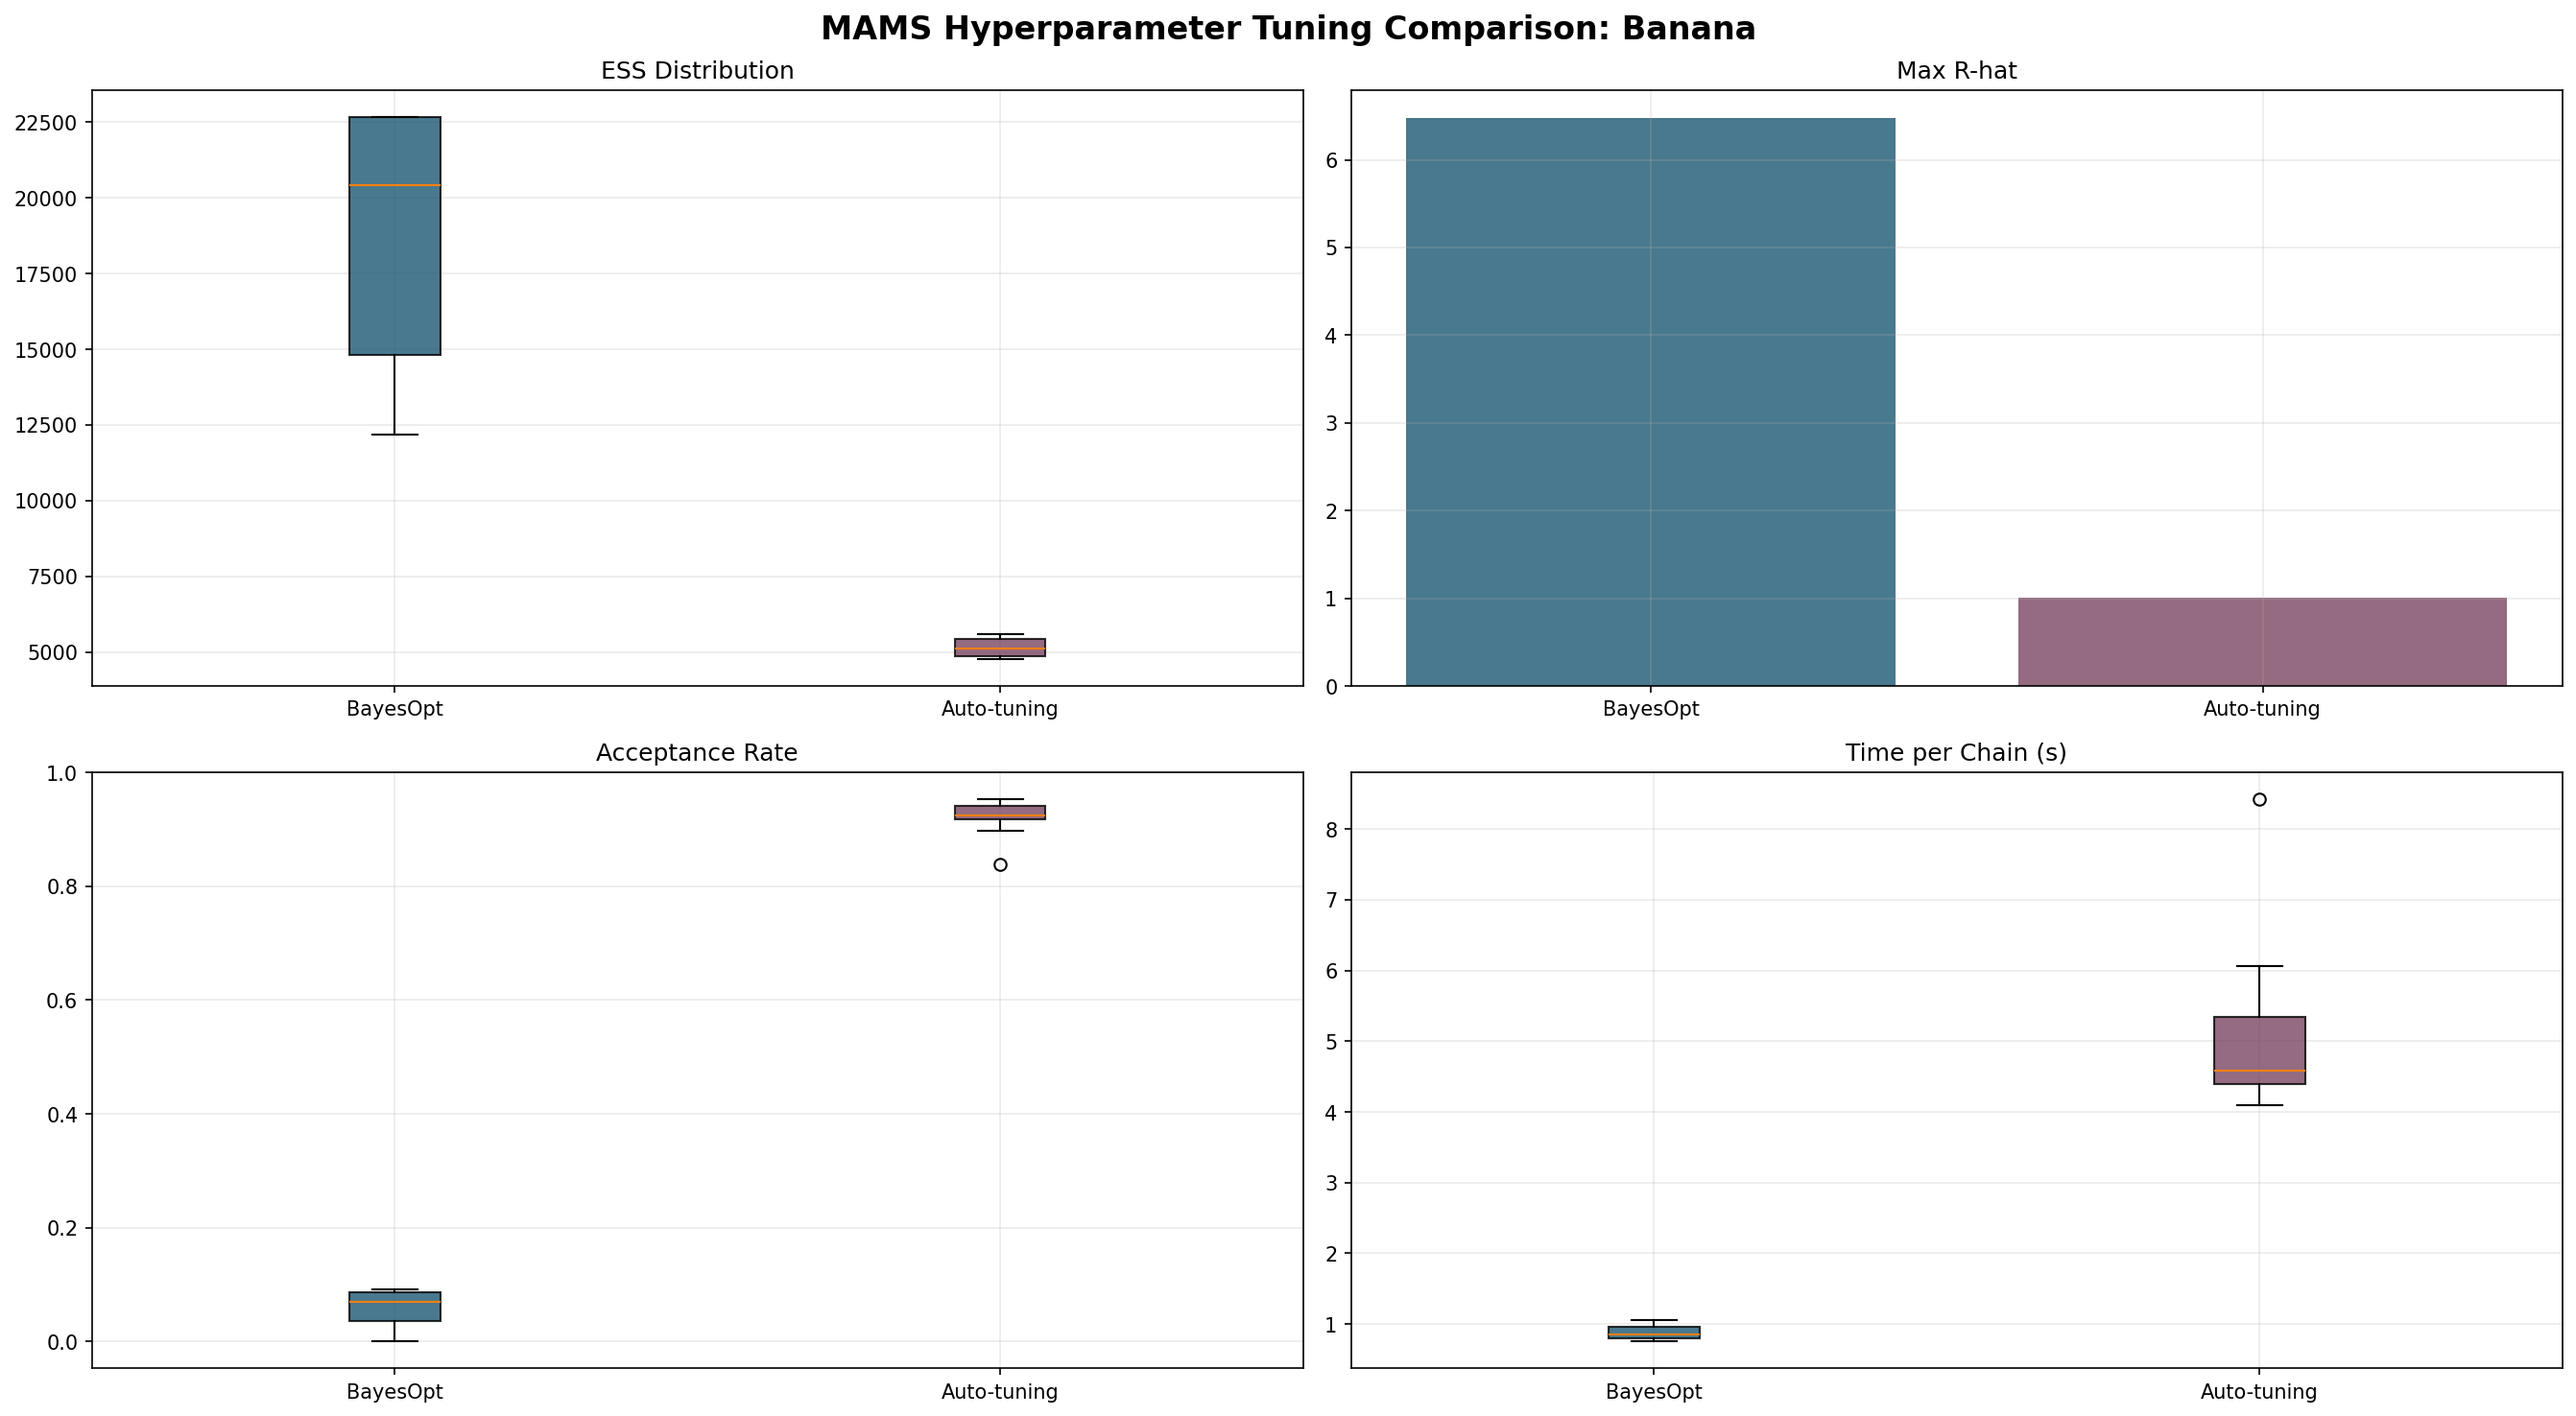
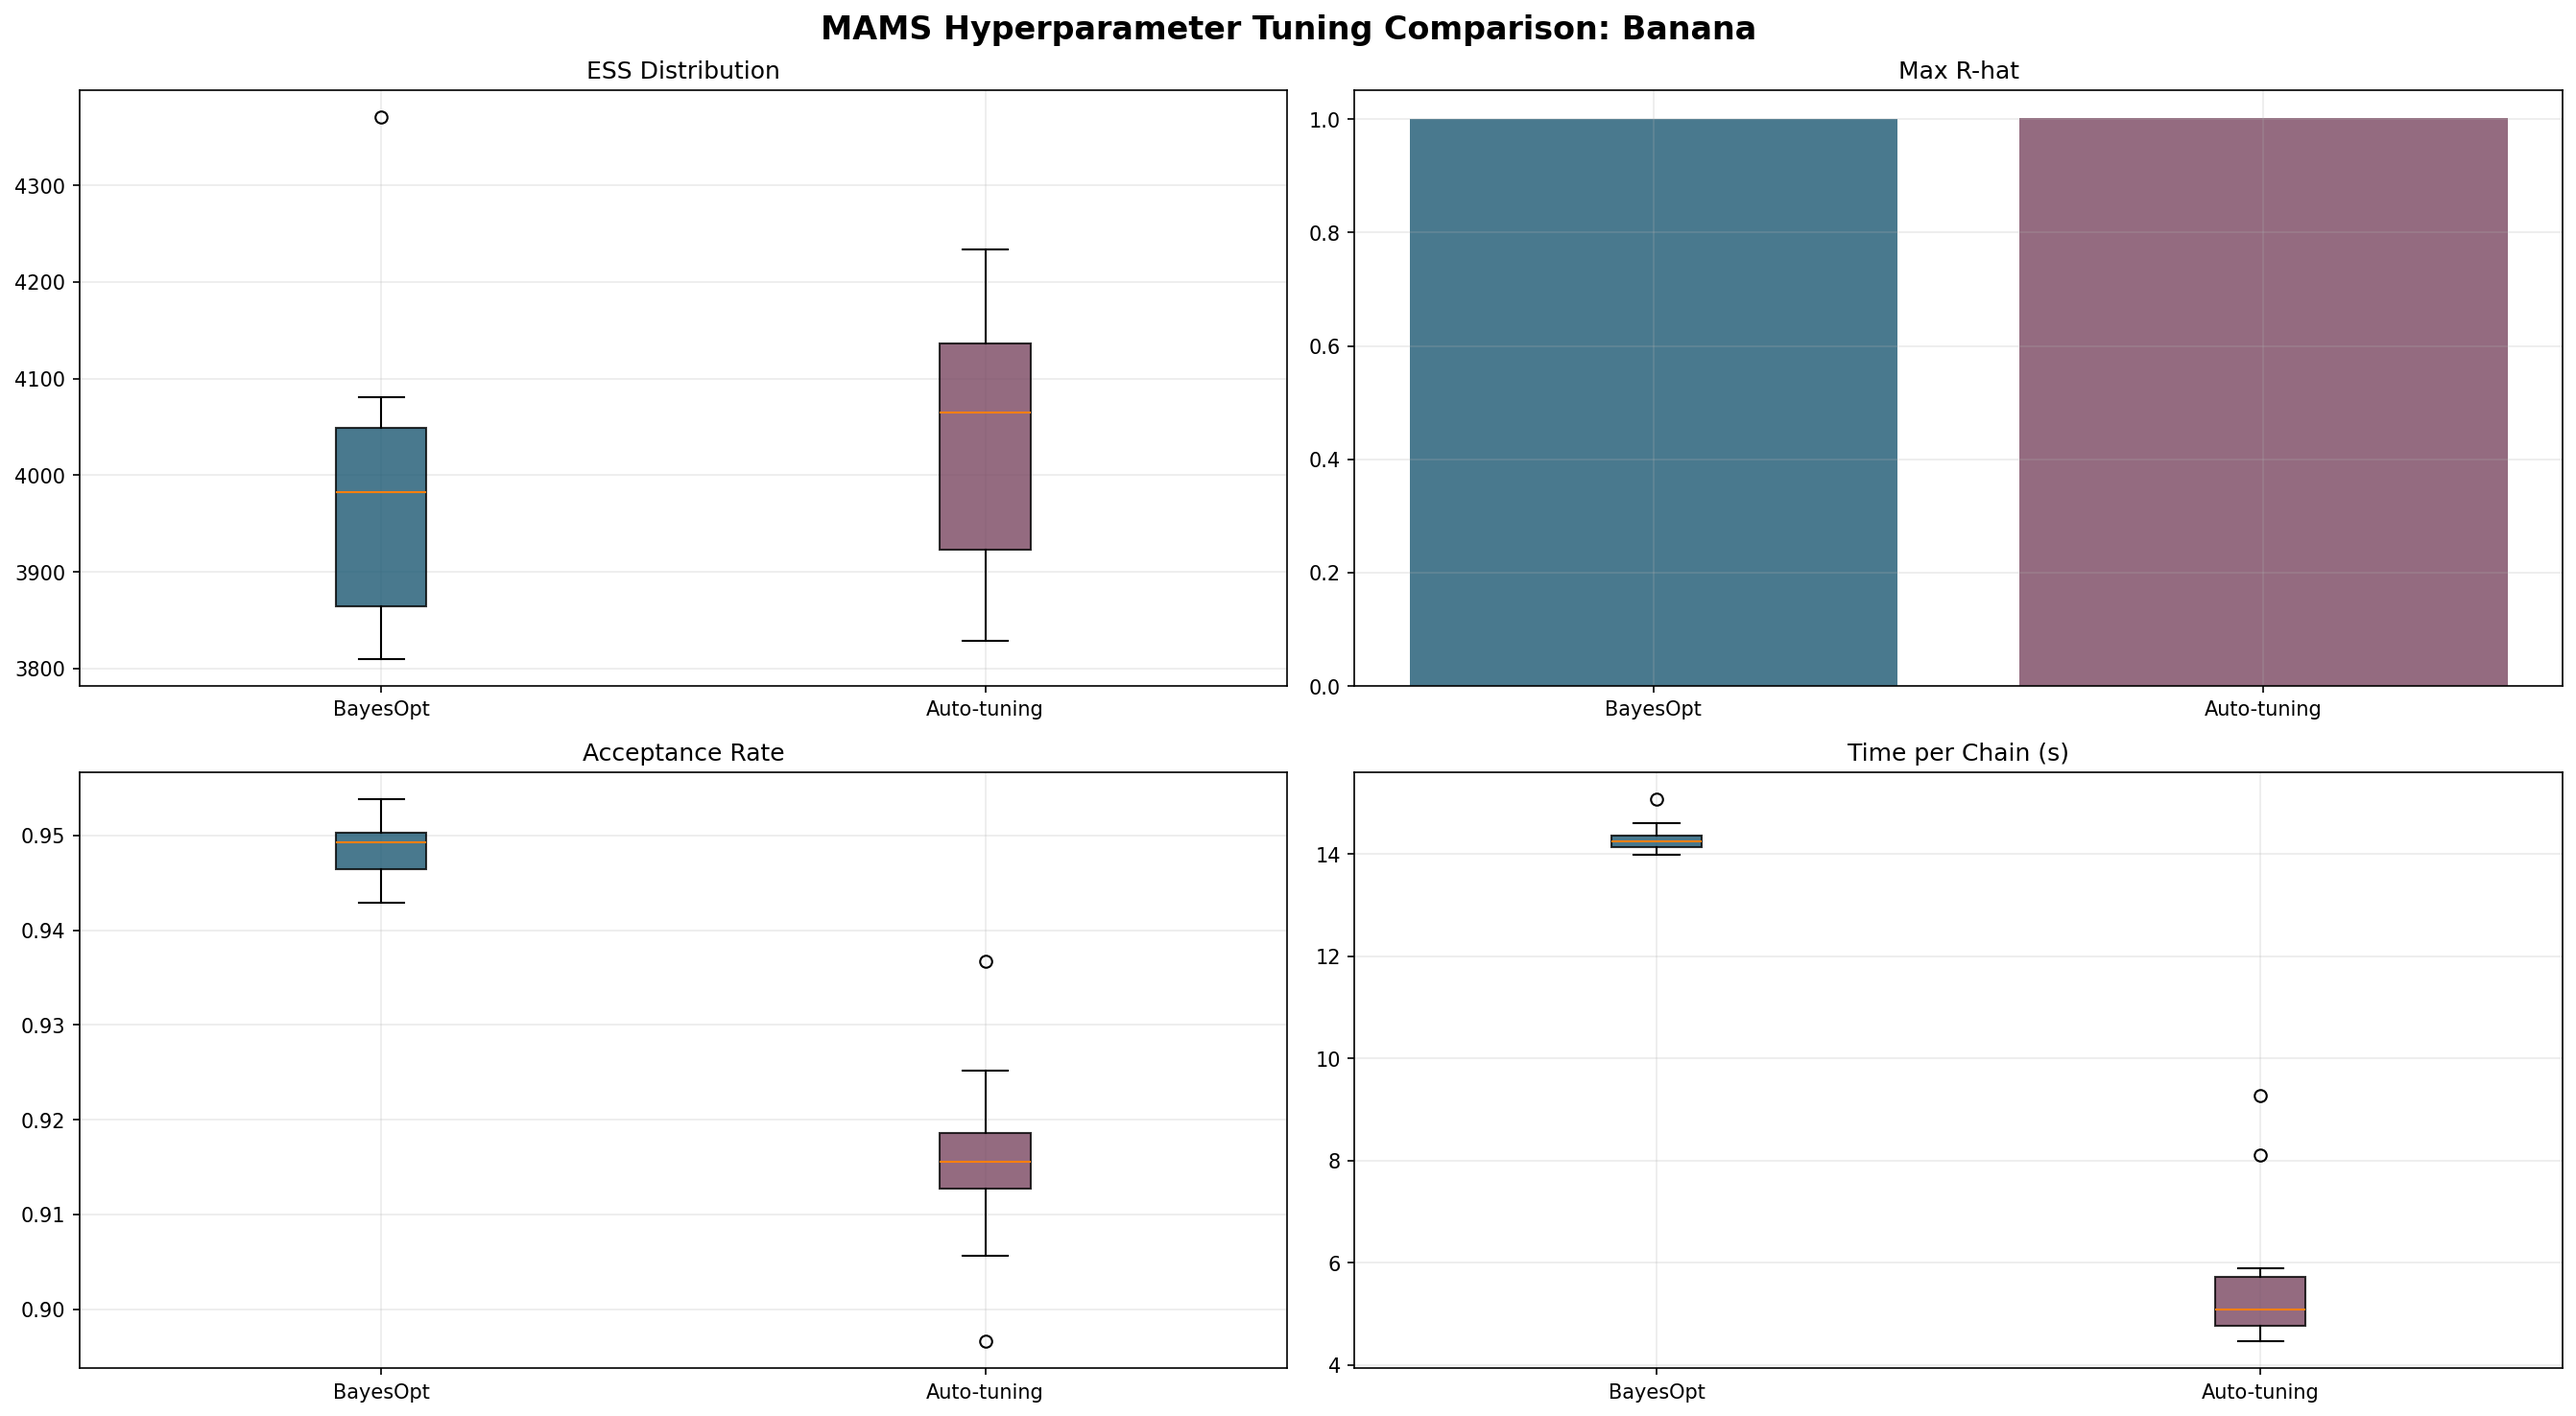
modified plots, changed targets, chose leapfrog integrator

diff --git a/code/plot_functions.py b/code/plot_functions.py
@@ -18,7 +18,8 @@ import arviz as az
 
 # Axeis and subplots: https://matplotlib.org/stable/users/explain/axes/index.html
 
-
+# Poach loops and fancy grids and stuff from the gallery:
+# https://matplotlib.org/stable/gallery/index.html
 
 
 
@@ -85,10 +86,10 @@ def plot_comparison(results_dict, target_name, save_path = None):
         r = results_dict[m]
         table_data.append([ # What I want to save
             m,
-            f"{jnp.mean(r['ess']):.1f} +/- sd: {jnp.std(r['ess']):.2f}",
+            f"{jnp.mean(r['ess']):.3f} +/- sd: {jnp.std(r['ess']):.3f}",
             f"{r['rhat']:.3f}",
-            f"{jnp.mean(r['acceptance']):.2f} +/- sd: {jnp.std(r['acceptance']):.2f}",
-            f"{jnp.mean(r['time_per_chain']):.1f}s +/- sd: {jnp.std(r['time_per_chain']):.2f}"
+            f"{jnp.mean(r['acceptance']):.3f} +/- sd: {jnp.std(r['acceptance']):.3f}",
+            f"{jnp.mean(r['time_per_chain']):.3f}s +/- sd: {jnp.std(r['time_per_chain']):.3f}"
         ])
 
     tbl = ax_table.table(
@@ -136,7 +137,7 @@ def plot_trace_and_samples(results_dict, target_name, dim_pair = (0, 1), num_cha
             ax.plot(chain_samples, alpha = 0.5, linewidth = 1, label=f'Chain {chain_id + 1}')
         ax.set_xlabel('Iteration', fontsize = 10)
         ax.set_ylabel(f'Dimension {dim1}', fontsize = 10)
-        ax.set_title(f'{method}: Trace Plot (Dim {dim1})', fontsize = 12, fontweight='bold')
+        ax.set_title(f'{method}: Trace Plot (Dimension {dim1})', fontsize = 12, fontweight='bold')
         ax.grid(True, alpha = 0.25)
         if num_chains <= 5:# Legend if a managebale number of chains
             ax.legend(fontsize = 9)
@@ -147,11 +148,11 @@ def plot_trace_and_samples(results_dict, target_name, dim_pair = (0, 1), num_cha
         for chain_id in range(num_chains):
             x = samples[chain_id, :, dim1]
             y = samples[chain_id, :, dim2]
-            ax.scatter(x, y, s = 5, alpha = 0.5, c = range(len(x)), cmap = 'viridis', label=f'Chain {chain_id+1}' if chain_id == 0 else '')
-            ax.plot(x, y, color='gray', alpha = 0.25, linewidth = 1)
+            ax.scatter(x, y, s = 5, alpha = 0.25, c = range(len(x)), cmap = 'coolwarm', label=f'Chain {chain_id+1}' if chain_id == 0 else '')
+            ax.plot(x, y, color='gray', alpha = 0.1, linewidth = 1)
         ax.set_xlabel(f'Dimension {dim1}', fontsize = 10)
         ax.set_ylabel(f'Dimension {dim2}', fontsize = 10)
-        ax.set_title(f'{method}: Sample Path (Dims {dim1}, {dim2})', fontsize = 12, fontweight = 'bold')
+        ax.set_title(f'{method}: Sample Path (Dimensions {dim1}, {dim2})', fontsize = 12, fontweight = 'bold')
         ax.grid(True, alpha = 0.25)
     
     plt.suptitle(f'{target_name}: Traces and Chain Paths', fontsize = 14, fontweight = 'bold', y = 0.98)
@@ -195,36 +196,38 @@ def plot_bayesopt_progress(bayes_results, target_name, save_path = None):
     # R-hat vs iteration in top right
     ax = axes[0, 1]
     ax.plot(it, rhat, "o-")
-    ax.axhline(1.0, color = "red", linestyle = "--", label = "Target") # Why color not colour?
+    #ax.axhline(1.0, color = "red", linestyle = "--", label = "Target") # Why color not colour?
     ax.set_title("R-hat over iterations")
     ax.set_xlabel("Iteration")
     ax.set_ylabel("R-hat")
     ax.set_xticks(range(len(it)))
     ax.set_xticklabels([i+1 for i in range(len(it))])
-    ax.legend()
     ax.grid(True, alpha = 0.25)
 
 
     # Hyperparameter (L, e) exploration in the bottom left
     ax = axes[1, 0]
-    scatter = ax.scatter(Ls, steps, c = obj, cmap = "viridis", s = 100) # objective function to colour the points
-    ax.set_xlabel("L")
-    ax.set_ylabel("step_size")
+    scatter = ax.scatter(Ls, steps, c = obj, cmap = "turbo", s = 100) # objective function to colour the points
+    ax.set_xlabel("Trajectory Length")
+    ax.set_ylabel("Step Size")
     ax.set_title("Hyperparameter Search")
     plt.colorbar(scatter, ax=ax, label="Objective")
     ax.grid(True, alpha = 0.25)
+    best = int(np.argmax(obj)) # Find best hyperparams
+    ax.scatter(Ls[best], steps[best], s = 250, edgecolors = "grey", c = "red", marker = "*", label = "Best")
+    ax.legend(loc = "upper left")
 
     # Objective function over iteration in bottom right
     ax = axes[1, 1]
     ax.plot(it, obj, "o-")
     best = int(np.argmax(obj))
-    ax.scatter(it[best], obj[best], s = 200, c = "red", marker = "*", label = "Best")
+    ax.scatter(it[best], obj[best], s = 250, edgecolors = "grey", c = "red", marker = "*", label = "Max", zorder = 10) # Star on top
     ax.set_title("Objective Progress")
     ax.set_xlabel("Iteration")
     ax.set_ylabel("Objective")
     ax.set_xticks(range(len(it)))
     ax.set_xticklabels([i+1 for i in range(len(it))])
-    ax.legend()
+    ax.legend(loc = "upper left")
     ax.grid(True, alpha = 0.25)
 
     plt.suptitle(f"BayesOpt Hyperparameter Tuning Progress: {target_name}", fontsize = 16, fontweight = "bold")

diff --git a/code/bayesopt_vs_autotune.py b/code/bayesopt_vs_autotune.py
@@ -40,7 +40,9 @@ from bayes_opt import objective_function_with_convergence, run_bayesopt_tuning
 from samplers import compute_ess, compute_rhat
 from samplers import run_mams_fixed, run_mams_auto, run_multiple_chains_fixed, run_multiple_chains_auto
 
-
+# Make plots folder
+import os
+os.makedirs('plots', exist_ok = True) ##### Run the script from the code folder then it makes the plots folder, so cd into code
 
 
 # Run a few longer chains with the BayesOpt-ed hyperparameters from a few positions
@@ -93,13 +95,13 @@ def validate_method(method_name, logdensity_fn, initial_position, validation_key
     # Print the results, line stuff up even though the names are different lengths
     print("")
     print(f"Validation results for: {method_name}")
-    print(f"            ESS mean +/- sd: {jnp.mean(ess_arr):.1f} ± {jnp.std(ess_arr):.1f}")
+    print(f"            ESS mean +/- sd: {jnp.mean(ess_arr):.3f} ± {jnp.std(ess_arr):.3f}")
     print(f"                  R-hat max: {rhat:.4f}")
     print(f"Acceptance rate mean +/- sd: {jnp.mean(acc_arr):.3f} ± {jnp.std(acc_arr):.3f}")
     print(f"              L mean +/- sd: {jnp.mean(L_values):.3f} ± {jnp.std(L_values):.3f}")
     print(f"      Step size mean +/- sd: {jnp.mean(step_values):.4f} ± {jnp.std(step_values):.4f}")
-    print(f" Time per chain mean +/- sd: {jnp.mean(time_arr):.2f}s ± {jnp.std(time_arr):.2f}s")
-    print(f"                 Total time: {elapsed:.1f}s")
+    print(f" Time per chain mean +/- sd: {jnp.mean(time_arr):.3f}s ± {jnp.std(time_arr):.3f}s")
+    print(f"                 Total time: {elapsed:.3f}s")
 
     
     # Return everytging
@@ -210,26 +212,33 @@ def compare_methods_on_target(target_name, logdensity_fn, dim, initial_position,
 
 
 
-# Run these experiemnst on the three targets: correlated Gaussian, bimodal isotropic Gaussians, Banana
+############################# Run these experiemnst on the three targets: correlated Gaussian, bimodal isotropic Gaussians, Banana
 
+############################# Bimodal
 # Dimension of target density
-dim = 3
-
+dim = 8
 # Start at the origin
 initial_position = jnp.zeros(dim)
 
-
-
-# Bimodal
 target1 = make_bimodal_gaussian_logdensity(mean1 = [-2] * dim, mean2 = [2] * dim, correlation = 0)
 compare_methods_on_target("Bimodal Gaussian", target1, dim, initial_position, tune_mass_matrix = False)
 
 
-# Correlated Gaussian
+############################# Correlated Gaussian
+# Dimension of target density
+dim = 20
+# Start at the origin
+initial_position = jnp.zeros(dim)
+
 target2 = make_correlated_gaussian_logdensity(dim, correlation = 0.8)
 compare_methods_on_target("Correlated Gaussian", target2, dim, initial_position, tune_mass_matrix = False)
 
 
-# Banana
+############################# Banana
+# Dimension of target density
+dim = 2
+# Start at the origin
+initial_position = jnp.zeros(dim)
+
 target3 = make_banana_logdensity(dim)
 compare_methods_on_target("Banana", target3, dim, initial_position, tune_mass_matrix = False)

diff --git a/code/samplers.py b/code/samplers.py
@@ -34,7 +34,7 @@ from modified_mams_adaptation import adjusted_mclmc_find_L_and_step_size
 # https://blackjax-devs.github.io/blackjax/autoapi/blackjax/mcmc/adjusted_mclmc/index.html#
 # https://blackjax-devs.github.io/blackjax/_modules/blackjax/mcmc/adjusted_mclmc.html#as_top_level_api
 
-# Need to change the integrator to velocity_verlet: https://blackjax-devs.github.io/blackjax/_modules/blackjax/mcmc/integrators.html#isokinetic_velocity_verlet
+# Need to change the integrator to (isokinetic) velocity_verlet: https://blackjax-devs.github.io/blackjax/_modules/blackjax/mcmc/integrators.html#isokinetic_velocity_verlet
 
 
 
@@ -94,7 +94,7 @@ def run_mams_fixed(logdensity_fn, chain_length, initial_position, key, L, step_s
         logdensity_fn = logdensity_fn,
         step_size = step_size, # Given step size
         num_integration_steps = num_integration_steps, # Eseentialy L
-        #integrator = blackjax.mcmc.integrators.velocity_verlet # Want leapfrog/verlocit verlet
+        integrator = blackjax.mcmc.integrators.isokinetic_velocity_verlet # Want leapfrog/verlocit verlet
     )
     
     # Do one proposal and keep info so we can look at the accpetance rates
@@ -139,8 +139,9 @@ def run_mams_auto(logdensity_fn, num_steps, initial_position, key, tune_mass_mat
         num_steps_int = jnp.ceil(avg_num_integration_steps).astype(int)
         
         kernel_fn = blackjax.mcmc.adjusted_mclmc.build_kernel(
-            logdensity_fn=logdensity_fn,
-            inverse_mass_matrix=inverse_mass_matrix,
+            logdensity_fn = logdensity_fn,
+            inverse_mass_matrix = inverse_mass_matrix,
+            integrator = blackjax.mcmc.integrators.isokinetic_velocity_verlet # Leapfrog
         )
         
         return kernel_fn(
@@ -182,7 +183,7 @@ def run_mams_auto(logdensity_fn, num_steps, initial_position, key, tune_mass_mat
         step_size = step_size,
         num_integration_steps = num_integration_steps,
         inverse_mass_matrix = inverse_mass_matrix,
-        #integrator = blackjax.mcmc.integrators.velocity_verlet # Leapfrog
+        integrator = blackjax.mcmc.integrators.isokinetic_velocity_verlet # Leapfrog
     )
     
     # Get the info for one proposal

diff --git a/code/bayes_opt.py b/code/bayes_opt.py
@@ -35,7 +35,7 @@ def objective_function_with_convergence(ess, rhat, acceptance_rate, chain_length
     # If R-hat > 1, take amount above 1, then penalize more for more chains and longer chains 
     # chain length * number of chains * amount R-hat is above 1
     # So smaller penalty for R-hat just above 1 but huge penalty for terrible R-hat
-    penalty_rhat = chain_length * num_chains * jnp.maximum(rhat - rhat_threshold, 0)
+    penalty_rhat = chain_length * num_chains * num_chains * jnp.maximum(rhat - rhat_threshold, 0)
 
     
     # ESS has weird behaviour when no samples are accepted
@@ -45,7 +45,7 @@ def objective_function_with_convergence(ess, rhat, acceptance_rate, chain_length
     # chain length * number of chains * amount acceptance rate is below 0.25
     # No penalty above 0.25 acceptance rate
     if acceptance_rate < 0.25:
-        penalty_acc = chain_length * num_chains * (0.25 - acceptance_rate)
+        penalty_acc = chain_length * num_chains * num_chains * (0.25 - acceptance_rate)
     else:
         penalty_acc = 0.0
 
